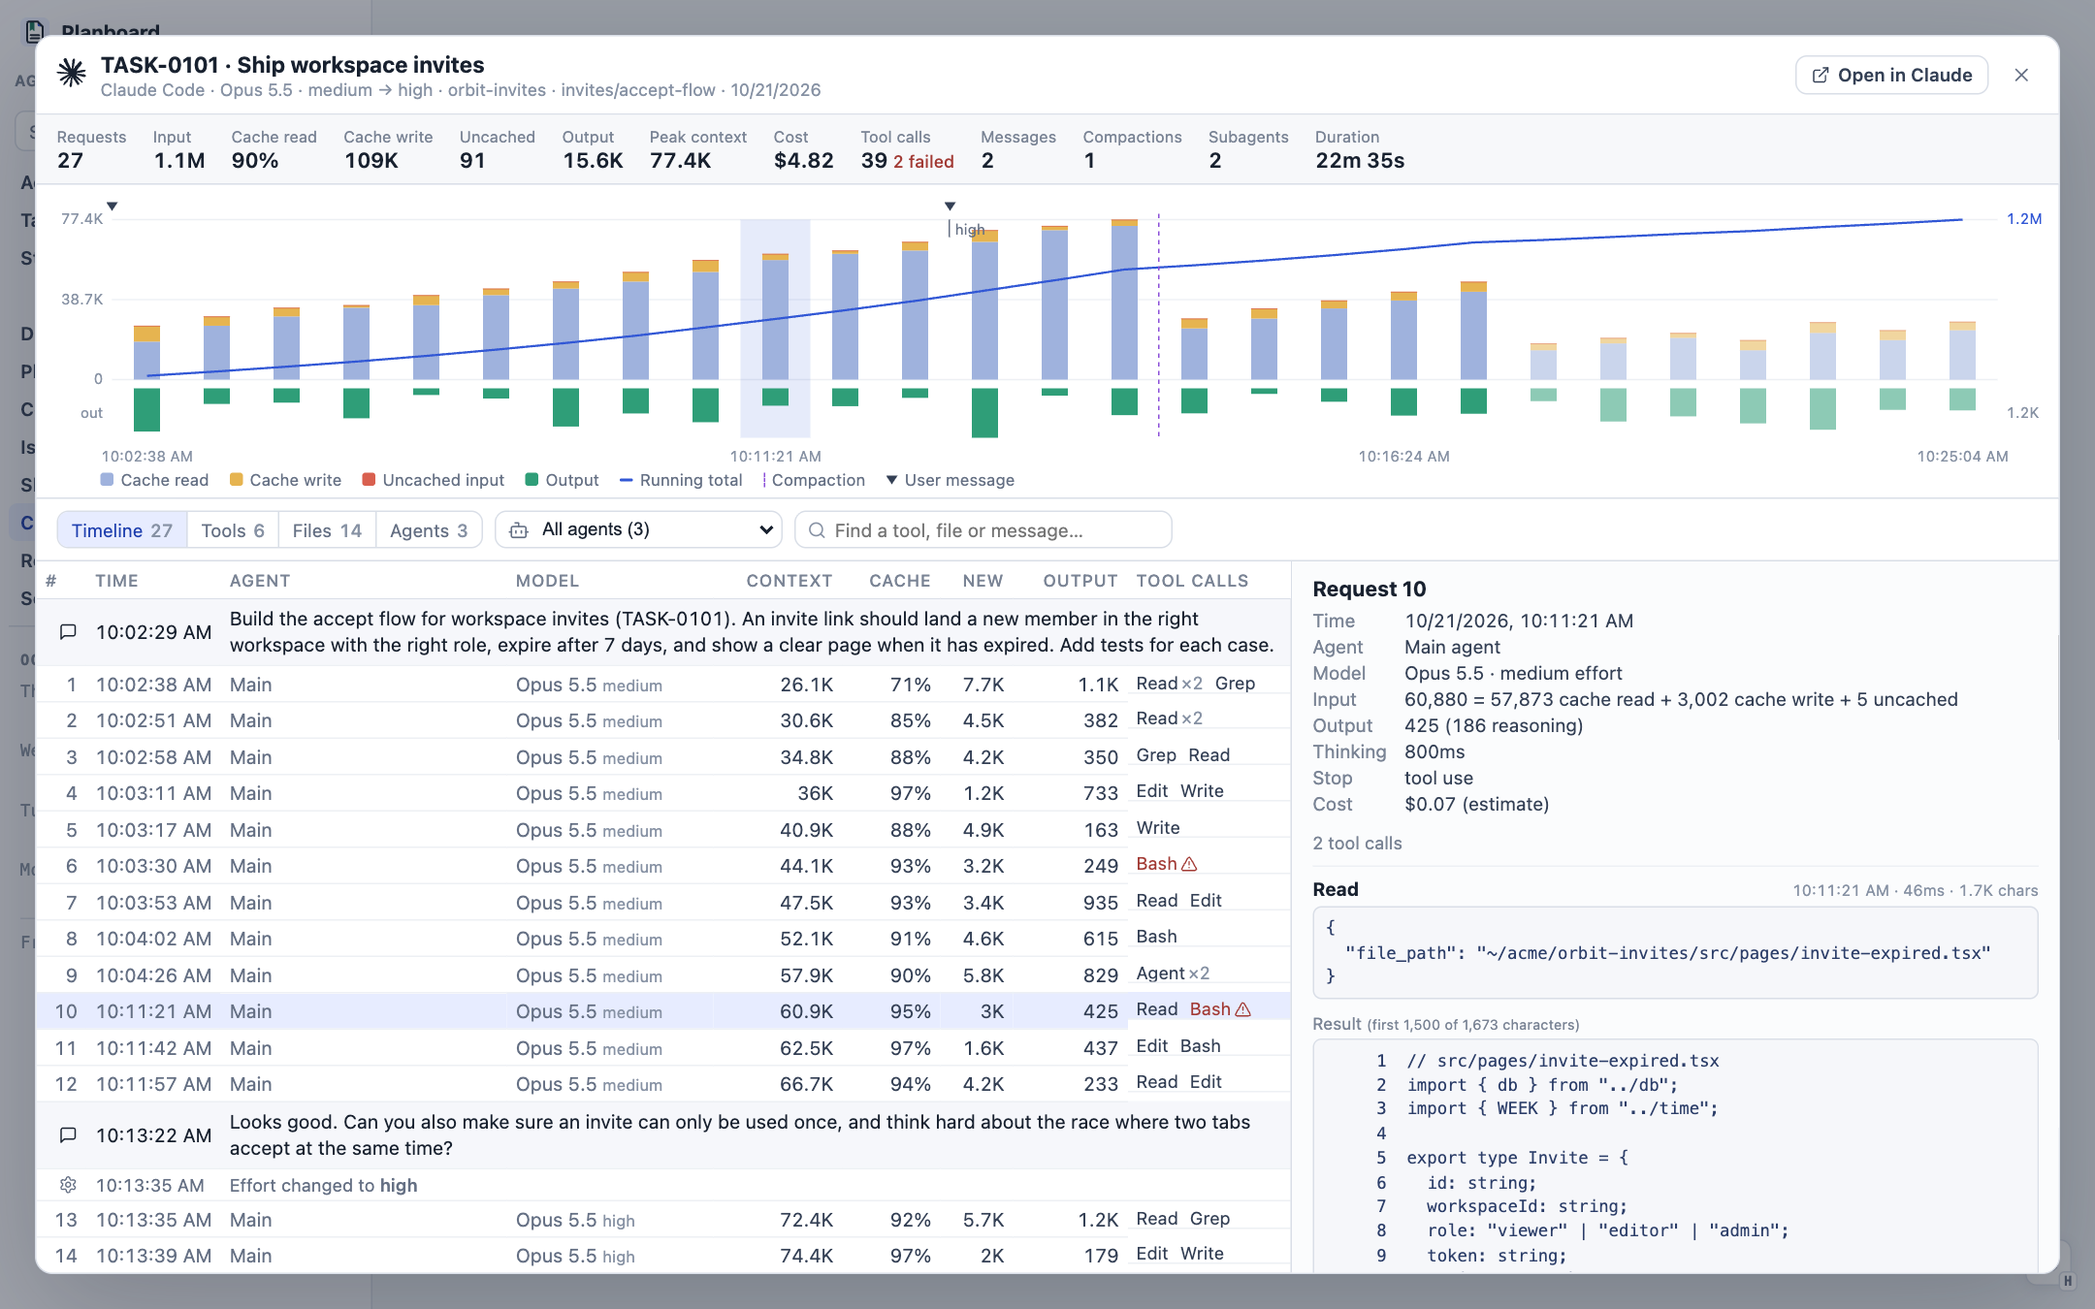
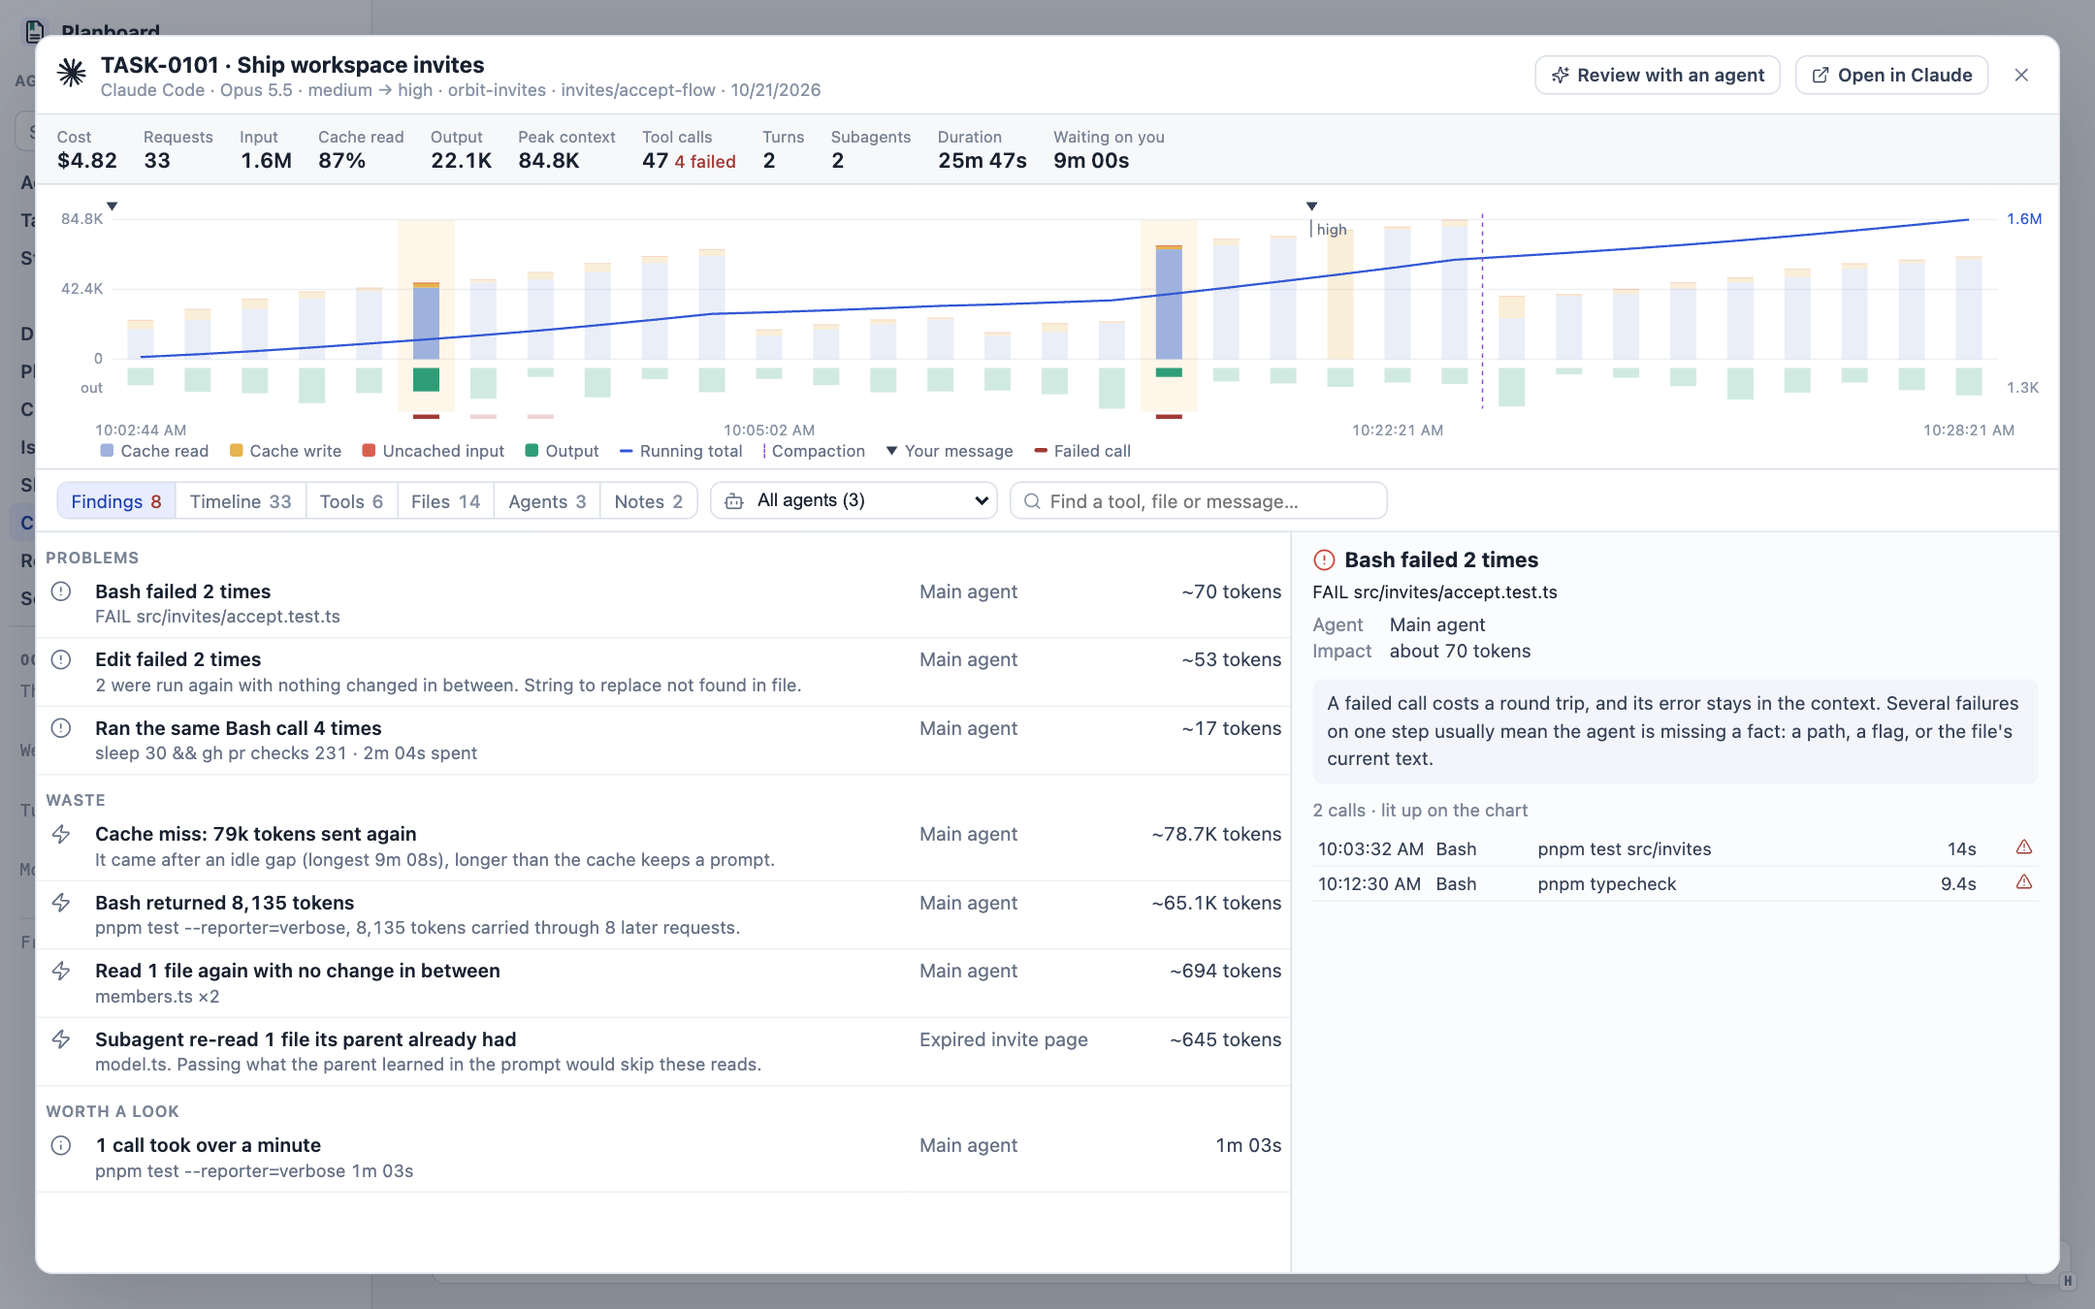
Document session findings, notes and review, and refresh the session screenshots

diff --git a/site/index.html b/site/index.html
@@ -448,14 +448,14 @@ status: active
 
 <section class="page" id="session">
   <h2>Session analysis <span class="route">?session=claude:&lt;id&gt;</span></h2>
-  <p class="intro">One Codex or Claude Code session read in full from its local log: where the tokens went, which tools ran, how long they took and which failed. Open it from a thread's token count on Chat Threads or the chart button beside a chat link in a task.</p>
-  <figure><a href="images/session.webp"><img src="images/session.webp" loading="lazy" width="2160" height="1350" alt="Session analysis of a Codex session on its Tools tab"></a><figcaption>A fictional Codex session; the overlay reads only your own machine's logs.</figcaption></figure>
+  <p class="intro">One Codex or Claude Code session read in full from its local log: what the agents did, where the tokens and time went, and what went wrong. Open it from a thread's token count on Chat Threads or the chart button beside a chat link in a task.</p>
+  <figure><a href="images/session.webp"><img src="images/session.webp" loading="lazy" width="2160" height="1350" alt="Session analysis of a Claude Code session on its Findings tab"></a><figcaption>A fictional Claude Code session; the overlay reads only your own machine's logs.</figcaption></figure>
   <dl class="parts">
-    <dt>Totals</dt><dd>Requests, input with the share read from cache, cache writes, uncached input, output, the largest prompt, cost (Claude Code's own total, or an estimate marked <strong>est.</strong>), tool calls and failures, messages, compactions, subagents and duration.</dd>
-    <dt>Chart</dt><dd>A bar per request: cache read, cache write and uncached input stacked, output below the axis, and a running total. Rules and marks show compactions, your messages, and model or effort changes. Click a bar to select its request.</dd>
-    <dt>Timeline</dt><dd>Requests, your messages and the changes between them in order, each request with its model, effort, prompt size, cache share and the tools it called.</dd>
-    <dt>Tools, Files, Agents</dt><dd>Calls, failures and time per tool; reads, edits and writes per file; and the main agent beside each subagent. Pick an agent to scope the whole view to it.</dd>
-    <dt>Inspector</dt><dd>The selected request's token breakdown and every tool call it made with its arguments, duration and result, or the full text of a message.</dd>
+    <dt>Findings</dt><dd>Failed calls and blind retries, polling loops, files read again, subagents re-reading what their parent had, large results carried through later requests, cache misses after idle gaps, and slow calls. Worst first, each with a token estimate and what usually does better.</dd>
+    <dt>Chart</dt><dd>A bar per request: cache read, cache write and uncached input stacked, output below the axis, and a running total. Marks show compactions, your messages, model or effort changes and failed calls. A selected finding lights up its requests.</dd>
+    <dt>Timeline</dt><dd>Each of your messages heads a turn with its requests, calls, failures, time and cost; below it, what the agent said before each step and the tools it called.</dd>
+    <dt>Tools, Files, Agents</dt><dd>Calls, failures, time and result tokens per tool; reads, edits and writes per file; and each agent's activity on one clock with its cost and findings.</dd>
+    <dt>Notes and review</dt><dd>Note any tool call (what was it for, what would have been better); notes are saved in the workspace. <strong>Review with an agent</strong> turns the findings and notes into a prompt that asks for lasting fixes.</dd>
   </dl>
 </section>
 

diff --git a/docs/guide.md b/docs/guide.md
@@ -52,18 +52,29 @@ The list shows every live thread and the 50 most recent finished top-level threa
 
 ### Session analysis
 
-The session overlay reads one Codex or Claude Code session's log in full, so you can see where its tokens and time went. Open it from a thread's **Tokens** number on Chat Threads, or from the chart button beside a Codex or Claude Code chat link in a document (a task's `## Chats` list, for example). The URL keeps it open: `?session=claude:<session id>` or `?session=codex:<thread id>`, with `session-tab`, `session-agent` and `session-pick` for the tab, agent and selected row.
+The session overlay reads one Codex or Claude Code session's log in full, so you can see what the agents did, where the tokens and time went, and what went wrong. Open it from a thread's **Tokens** number on Chat Threads, or from the chart button beside a Codex or Claude Code chat link in a document (a task's `## Chats` list, for example). The URL keeps it open: `?session=claude:<session id>` or `?session=codex:<thread id>`, with `session-tab`, `session-agent` and `session-pick` for the tab, agent and selected row.
 
-- **Header.** The session's title, the models and effort levels it used in order (`Opus 5.5 · medium → high`), its folder, branch and start time, and **Open in Claude** or **Open in Codex**.
-- **Totals.** Requests, input, the share read from the prompt cache, cache writes, uncached input, output, the largest single prompt, cost, tool calls with failures, typed messages, compactions, subagents and duration. Input is the whole prompt each request read, so a long session's input is mostly cache reads. Cost is Claude Code's own total when the transcript has one; otherwise it is an estimate from public API prices, marked **est.**, and a dash when the model has no known price. Hover a number for the exact count.
-- **Chart.** One bar per model request, in order: the prompt stacked as cache read, cache write and uncached input, with output below the axis on its own scale. A blue line traces the running total of tokens. A dashed purple rule marks each compaction, a triangle on top marks each message you typed, and a short label marks a model or effort change. A dotted line shows Codex's context window when the prompts come near it. Hover a bar for its numbers; click it to select that request in the timeline.
-- **Timeline.** Requests in time order, with your messages and the compaction, model and effort changes between them. Each row shows the time, model and effort, the prompt size, the share read from cache, new (uncached) input, output and the tools it called, with a count for repeats and a red alert for a failed call.
-- **Tools.** One row per tool: calls, failures, total, median and longest time from call to result, and the size of the results it returned. Select a tool to list every call; click a call to see its request in the timeline.
-- **Files.** Every file a tool read, edited or wrote (Read, Edit, Write, apply_patch and the like), with counts per action and when it was last touched.
-- **Agents.** The main agent and each subagent with its model, requests, tokens, tool calls and duration. Click one to scope the whole overlay to it; the **Agent** menu in the toolbar does the same, and **All agents** mixes them in time order (subagent bars show lighter). A spawning call in the inspector has **Open subagent**.
-- **Inspector.** The selected request in full: its token breakdown, context-window share (Codex), thinking time and stop reason (Claude Code), estimated cost, and every tool call it made with its arguments, duration, result size and the start of its result. A selected message shows its full text.
+- **Header.** The session's title, the models and effort levels it used in order (`Opus 5.5 · medium → high`), its folder, branch and start time, **Review with an agent**, and **Open in Claude** or **Open in Codex**.
+- **Totals.** Cost, requests, input, the share read from the prompt cache, output, the largest single prompt, tool calls with failures, turns (messages you typed), subagents, duration, and **Waiting on you**: the time between the agent's last step and your next message. Cost is Claude Code's own total when the transcript has one; otherwise it is an estimate from public API prices, marked **est.**, and a dash when the model has no known price. Hover a number for the exact count.
+- **Chart.** One bar per model request, in order: the prompt stacked as cache read, cache write and uncached input, with output below the axis on its own scale. A blue line traces the running total of tokens. A dashed purple rule marks each compaction, a triangle on top marks each message you typed, a short label marks a model or effort change, and a red tick under a bar marks a failed call. A dotted line shows Codex's context window when the prompts come near it. Hover a bar for its numbers and what the agent said; click it to select that request in the timeline. While a finding is selected, its requests stay lit and the rest dim.
+- **Findings.** The tab the overlay opens on when it finds something, grouped as Problems, Waste and Worth a look, each with a token estimate (characters ÷ 4, counted again for every later request that carried them):
+  - a tool that failed, and whether it was run again with nothing changed in between;
+  - the same call three or more times in a row with no edit between them (polling, or a loop);
+  - a file read again with no change to it in between, and a subagent reading a file its parent had already read;
+  - results over about 5k tokens, and how many later requests carried them;
+  - cache misses, where a request sent most of its prompt again (usually after an idle gap longer than the cache keeps a prompt);
+  - calls that took over a minute, and a context near its window.
 
-The filter (`/`) narrows the current tab by tool name, arguments, file path or message text. Up and Down move between rows. Claude Code sessions include each Agent-tool subagent's own transcript; Codex sessions include subagent threads from the state database. The overlay reads only this computer's logs (`~/.claude/projects` and `~/.codex/sessions`, or `CLAUDE_CONFIG_DIR` and `CODEX_HOME`); `examples/agent-logs/` holds fictional ones for the demo, made by `scripts/agent-logs-sample.mjs`.
+  Select a finding to see what it means and what usually does better, with its calls; click a call to see it in the timeline, where the finding's rows stay tinted until you clear it with × in the toolbar.
+- **Timeline.** Your messages head each turn with its requests, calls, failures, time and cost. Below each, requests in time order with what the agent said before acting, the tools it called (a count for repeats, a red alert for a failure, a pen for a call you noted), the prompt size, the share read from cache, new input and output. Compactions and model or effort changes sit between them.
+- **Tools.** One row per tool: calls, failures, total, median and longest time from call to result, and the tokens its results returned, with a bar for comparison. Select a tool to list every call.
+- **Files.** Every file a tool read, edited or wrote, with counts per action, how many agents touched it, and when it was last touched. A file read more than once without a change is marked.
+- **Agents.** The main agent and each subagent with its model, a strip of its activity on the session's clock (one tick per request), requests, cost, tool calls, findings and duration. Click one to scope the whole overlay to it; the **Agent** menu in the toolbar does the same, and **All agents** mixes them in time order (subagent bars show lighter). A spawning call in the inspector has **Open subagent**.
+- **Notes.** Notes you left on this session. **Note** beside any tool call in the inspector (or `N` with a request selected) asks what the call was for or what would have done better; **Note on the session** adds one about the whole run. Notes are saved in the workspace at `reference/session-notes/<claude|codex>-<id>.md`, one heading per note with the call's ID and first line, so the file reads on its own.
+- **Inspector.** The selected request: the findings it is part of, what the agent said, and every tool call laid out for its kind (a shell command, an edit as a diff, a written file, a subagent's prompt, a search), with its duration, result tokens, result and your notes on it. Hover the line under the heading for the full token breakdown. A selected turn shows your message, the agent's last word and every call it made.
+- **Review with an agent.** Opens the note popover with a prompt (`prompts/session-review.md`) that hands an agent the log's path, the findings and your notes, and asks it to explain each one and propose the smallest lasting fix: an AGENTS.md rule, a skill, a script, a tool permission or a better prompt. **Save note** queues it for Up next; the clipboard icon copies it.
+
+The filter (`/`) narrows the current tab by tool name, arguments, file path, message text or what the agent said. Up and Down move between rows. Claude Code sessions include each Agent-tool subagent's own transcript; Codex sessions include subagent threads from the state database. The overlay reads only this computer's logs (`~/.claude/projects` and `~/.codex/sessions`, or `CLAUDE_CONFIG_DIR` and `CODEX_HOME`); `examples/agent-logs/` holds fictional ones for the demo, made by `scripts/agent-logs-sample.mjs`.
 
 ### Setup
 

diff --git a/AGENTS.md b/AGENTS.md
@@ -49,7 +49,7 @@ The server is TypeScript run by `node --experimental-strip-types`. There is no `
 | Outbound drafts (task assets with `outbound:` front matter): fields, the hash of the outgoing text, Approve and send through `outbound.send`, Send back, Drop, Mark sent (`/api/outbound/*`); the approval panel on a draft's page | `outbound.ts` (server), `public/outbound.js` (panel and its delegated handlers) |
 | Steps page (`?view=steps`; lint rules in `stepErrors` and `draftErrors` in `check-planning.ts`; the Today plan's lead in `todayLeadHtml`, Outbox at `&kind=outbound`): open steps from every task's work breakdown with their next move (`deriveSteps`) and priority score (`scoreStep`, `downstreamCount`, `byPriority`; task `priority:` front matter written by `/api/steps/priority`), machinery files by `step:`, Pick on choices, Start with agent slots, Approve and run, Apply, Mark done (`/api/steps`, `/api/steps/{pick,start,run,apply,done}`); the `{kind, size}` suffix is parsed in `parseWorkBreakdown` | `steps.ts` (server; task folders are walked by `task-files.ts`, which skips symlinks and `node_modules`), `public/steps-page.js` (table, toolbar, inspector), `stepsIndex` and routes in `server.ts`, page wiring in `public/app.js` |
 | Chat Threads page (`?view=chat-threads`): local Codex and Claude Code threads from session metadata, `lsof` and the Codex state database; spawned threads (`parent`) nest under their parent and do not count toward the history limit; model names and family colors in `modelInfo` | `chat-threads.ts` (server, `/api/chat-threads`), `public/chat-threads.js` (client) |
-| Session overlay (`?session=claude:<id>` or `codex:<id>`): one Codex or Claude Code log read in full (requests with token use, tool calls with arguments, durations and errors, user messages, model, effort and compaction marks, subagents), served by `/api/chat-session`; a chart, timeline, tools, files and agents tables beside an inspector; opened from a Chat Threads token count and the chart button `sessionButton` adds beside chat links. `examples/agent-logs/` is fictional logs from `scripts/agent-logs-sample.mjs` | `agent-session.ts` (server), `public/session.js` (client), `session` entry in `OVERLAYS` |
+| Session overlay (`?session=claude:<id>` or `codex:<id>`): one Codex or Claude Code log read in full (requests with token use and what the agent said, tool calls with IDs, arguments, durations and errors, user messages, model, effort and compaction marks, subagents), served by `/api/chat-session`; Findings (failed and retried calls, loops, rereads, large results, cache misses, slow calls), timeline by turn, tools, files, agents and notes beside an inspector; notes on tool calls in `reference/session-notes/` (`/api/session-notes`), and Review with an agent (`/api/session-notes/prompt`, `prompts/session-review.md`); opened from a Chat Threads token count and the chart button `sessionButton` adds beside chat links. `examples/agent-logs/` is fictional logs from `scripts/agent-logs-sample.mjs` | `agent-session.ts` (server), `public/session-findings.js` (detectors, run under Node in tests), `session-notes.ts`, `public/session.js` (client), `session` entry in `OVERLAYS` |
 | Setup page (`?view=setup&tab=&item=`; four tabs, each one list in a shared row grid beside an inspector, the Code-view toolbar and split): live integration checks (`gh`, `acli`, Linear, Slack, Codex app server, draftably, agent apps), every `config/viewer.json` key with its meaning read from `docs/configuration.md` (a key missing there fails `setup.test.ts`), scalar edits and Reset (`/api/setup/config`), the Config files list and read-only view (`/api/setup/file`, never `config.toml`), helper prompts through the note popover (`/api/setup/agent`), and Getting started at the top while the workspace has no daily plan or no task (`gettingStarted`, `firstTaskPrompt`; boot opens Setup then) | `setup.ts` (server), `public/setup-page.js` (client) |
 | Prompt templates: every agent prompt the server builds (handoffs, work items, PR notes, worktree cleanup, Plans Update and Retire, Slack Discuss, and the `routine: true` daily plan, daily review and Up next sweep that the Setup page Starts through `routinePrompt` in `setup.ts`) is `prompts/<id>.md` with `{slots}`, overridden by the workspace's `config/prompts/<id>.md`; builders call `fillPrompt`. Change the words in the `.md`, not in code | `prompts.ts`, `prompts/` |
 | Codex Desktop deep links | `codex-desktop.ts` |

diff --git a/.changeset/the-session-overlay-finds-problems-and-waste-in.md b/.changeset/the-session-overlay-finds-problems-and-waste-in.md
@@ -1,0 +1,5 @@
+---
+"planboard": minor
+---
+
+The session overlay finds problems and waste in an agent session (failed and retried calls, polling loops, repeated reads, large results, cache misses), shows what the agent said in a timeline grouped by turn, lays out commands and edits as code and diffs, saves your notes on any tool call, and turns findings and notes into a review prompt.
